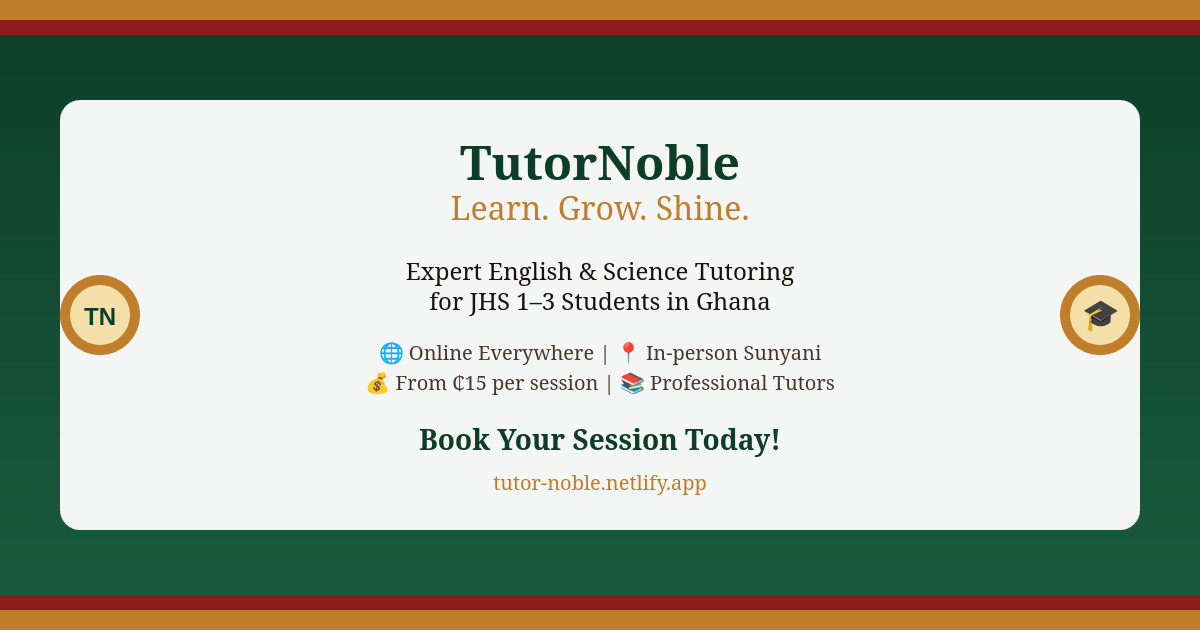
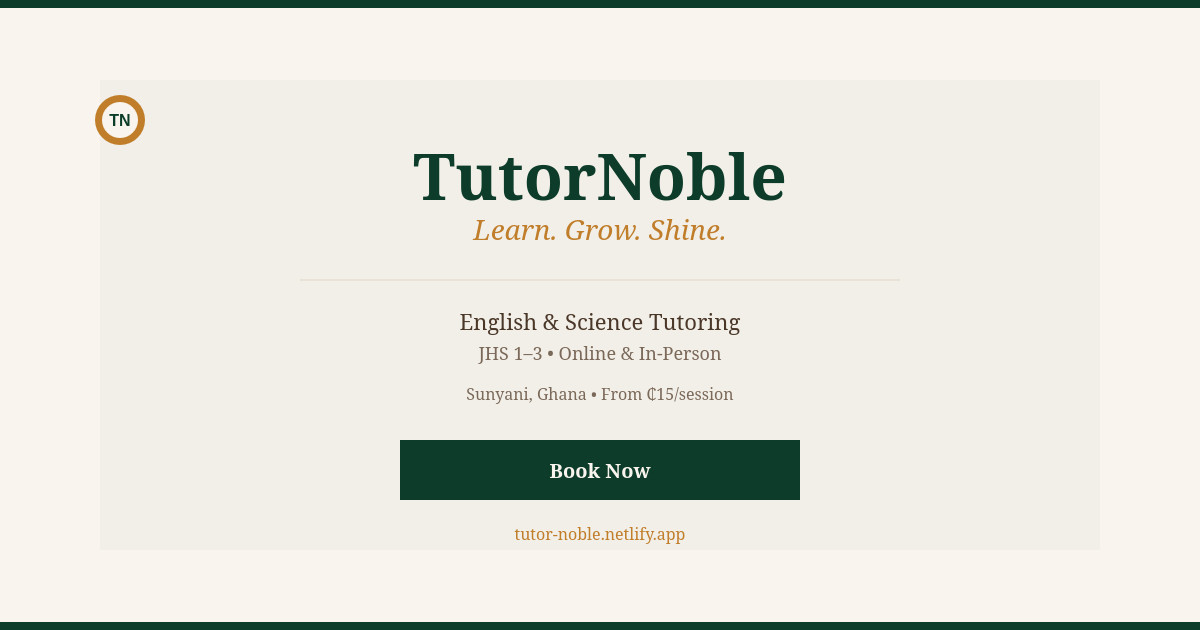
Update social media image with modern minimal design and add comprehensive README
- Replace busy social image with clean, minimal design
- Update social-image-generator.html with modern aesthetic
- Add comprehensive README.md with project documentation
- Include live site link and technical details
- Modern design features clean layout, subtle branding, minimal text
- README covers setup, features, brand guidelines, and project structure

diff --git a/social-image-generator.html b/social-image-generator.html
@@ -13,8 +13,8 @@ button:hover { background: #1A5C3E; }
 </head>
 <body>
 <div class="container">
-<h1>TutorNoble Social Media Image Generator</h1>
-<p>Creates a 1200x630px image for WhatsApp/Facebook sharing</p>
+<h1>TutorNoble Minimal Social Image Generator</h1>
+<p>Creates a modern, minimal 1200x630px image for WhatsApp/Facebook sharing</p>
 
 <div class="controls">
 <button onclick="generateImage()">Generate Social Image</button>
@@ -29,91 +29,81 @@ const canvas = document.getElementById('socialCanvas');
 const ctx = canvas.getContext('2d');
 
 function generateImage() {
-    // Background with gradient
-    const gradient = ctx.createLinearGradient(0, 0, 0, 630);
-    gradient.addColorStop(0, '#0D3D2A');
-    gradient.addColorStop(1, '#1A5C3E');
-    ctx.fillStyle = gradient;
+    // Clean minimal background
+    ctx.fillStyle = '#F9F5EE'; // Cream background
     ctx.fillRect(0, 0, 1200, 630);
     
-    // Kente pattern stripes
-    ctx.fillStyle = '#C07D2A';
-    ctx.fillRect(0, 0, 1200, 20);
-    ctx.fillRect(0, 610, 1200, 20);
-    
-    ctx.fillStyle = '#8B1C1C';
-    ctx.fillRect(0, 20, 1200, 15);
-    ctx.fillRect(0, 595, 1200, 15);
-    
-    // Main content area
-    ctx.fillStyle = 'rgba(255, 255, 255, 0.95)';
-    ctx.roundRect(60, 100, 1080, 430, 20);
-    ctx.fill();
-    
-    // Logo/Brand area
+    // Subtle forest green accent bar
     ctx.fillStyle = '#0D3D2A';
-    ctx.font = 'bold 48px Playfair Display';
+    ctx.fillRect(0, 0, 1200, 8);
+    ctx.fillRect(0, 622, 1200, 8);
+    
+    // Center content area with subtle shadow
+    ctx.fillStyle = 'rgba(13, 61, 42, 0.03)';
+    ctx.fillRect(100, 80, 1000, 470);
+    
+    // Main brand - centered and clean
+    ctx.fillStyle = '#0D3D2A';
+    ctx.font = 'bold 64px Playfair Display';
     ctx.textAlign = 'center';
-    ctx.fillText('TutorNoble', 600, 180);
+    ctx.fillText('TutorNoble', 600, 200);
     
-    // Tagline
+    // Minimal tagline
     ctx.fillStyle = '#C07D2A';
-    ctx.font = '32px Playfair Display';
-    ctx.fillText('Learn. Grow. Shine.', 600, 220);
+    ctx.font = 'italic 28px Playfair Display';
+    ctx.fillText('Learn. Grow. Shine.', 600, 240);
     
-    // Main message
-    ctx.fillStyle = '#1A1208';
-    ctx.font = '24px Plus Jakarta Sans';
-    ctx.fillText('Expert English & Science Tutoring', 600, 280);
-    ctx.fillText('for JHS 1–3 Students in Ghana', 600, 310);
+    // Clean separator line
+    ctx.strokeStyle = '#E0D5C5';
+    ctx.lineWidth = 1;
+    ctx.beginPath();
+    ctx.moveTo(300, 280);
+    ctx.lineTo(900, 280);
+    ctx.stroke();
     
-    // Features
-    ctx.font = '20px Plus Jakarta Sans';
+    // Core services - minimal text
     ctx.fillStyle = '#4A3728';
-    ctx.fillText('🌐 Online Everywhere | 📍 In-person Sunyani', 600, 360);
-    ctx.fillText('💰 From ₵15 per session | 📚 Professional Tutors', 600, 390);
+    ctx.font = '22px Plus Jakarta Sans';
+    ctx.fillText('English & Science Tutoring', 600, 330);
     
-    // Call to action
+    ctx.fillStyle = '#7A6858';
+    ctx.font = '18px Plus Jakarta Sans';
+    ctx.fillText('JHS 1–3 • Online & In-Person', 600, 360);
+    
+    // Location and pricing
+    ctx.fillStyle = '#7A6858';
+    ctx.font = '16px Plus Jakarta Sans';
+    ctx.fillText('Sunyani, Ghana • From ₵15/session', 600, 400);
+    
+    // Clean call to action
     ctx.fillStyle = '#0D3D2A';
-    ctx.font = 'bold 28px Plus Jakarta Sans';
-    ctx.fillText('Book Your Session Today!', 600, 450);
+    ctx.fillRect(400, 440, 400, 60);
     
-    // Website
+    ctx.fillStyle = '#F9F5EE';
+    ctx.font = 'bold 20px Plus Jakarta Sans';
+    ctx.fillText('Book Now', 600, 478);
+    
+    // Website URL - minimal
     ctx.fillStyle = '#C07D2A';
-    ctx.font = '20px Plus Jakarta Sans';
-    ctx.fillText('tutor-noble.netlify.app', 600, 490);
+    ctx.font = '16px Plus Jakarta Sans';
+    ctx.fillText('tutor-noble.netlify.app', 600, 540);
     
-    // Decorative elements
+    // Subtle brand element - small circle
     ctx.fillStyle = '#C07D2A';
     ctx.beginPath();
-    ctx.arc(100, 315, 40, 0, Math.PI * 2);
+    ctx.arc(120, 120, 25, 0, Math.PI * 2);
     ctx.fill();
     
-    ctx.fillStyle = '#F5DFA8';
+    ctx.fillStyle = '#F9F5EE';
     ctx.beginPath();
-    ctx.arc(100, 315, 30, 0, Math.PI * 2);
+    ctx.arc(120, 120, 18, 0, Math.PI * 2);
     ctx.fill();
     
+    // TN letters in circle
     ctx.fillStyle = '#0D3D2A';
-    ctx.font = 'bold 24px Arial';
+    ctx.font = 'bold 16px Arial';
     ctx.textAlign = 'center';
-    ctx.fillText('TN', 100, 325);
-    
-    // Right side decoration
-    ctx.fillStyle = '#C07D2A';
-    ctx.beginPath();
-    ctx.arc(1100, 315, 40, 0, Math.PI * 2);
-    ctx.fill();
-    
-    ctx.fillStyle = '#F5DFA8';
-    ctx.beginPath();
-    ctx.arc(1100, 315, 30, 0, Math.PI * 2);
-    ctx.fill();
-    
-    // Graduation cap icon
-    ctx.fillStyle = '#0D3D2A';
-    ctx.font = '30px Arial';
-    ctx.fillText('🎓', 1100, 325);
+    ctx.fillText('TN', 120, 126);
 }
 
 function downloadImage() {

diff --git a/README.md b/README.md
@@ -1,0 +1,164 @@
+# TutorNoble — Learn. Grow. Shine.
+
+🌐 **Live Site:** [https://tutor-noble.netlify.app/](https://tutor-noble.netlify.app/)
+
+Expert English and Science tutoring for JHS 1–3 students in Ghana. Online everywhere, in-person in Sunyani. From ₵15 per session.
+
+## 📚 About TutorNoble
+
+TutorNoble provides professional tutoring services for Junior High School students in Ghana, specializing in:
+
+- **English Language** - Grammar, Composition, Literature
+- **Integrated Science** - Biology, Chemistry, Physics
+- **Grade Levels** - JHS 1, JHS 2, JHS 3 (Grades 7-9)
+
+## 🌍 Services
+
+### Online Tutoring
+- Available everywhere in Ghana and internationally
+- Google Meet sessions
+- Flexible scheduling
+- ₵30 per hour / US$3.00
+
+### In-Person Tutoring  
+- Available in Sunyani, Bono Region only
+- Face-to-face sessions
+- Same great quality as online
+- ₵30 per hour / US$3.00
+
+## 💳 Payment Options
+
+- **MTN Mobile Money** - Instant payment
+- **Bank Transfer** - GCB Bank accepted
+- **Pay During Class** - Cash or MoMo at session start
+
+## 🎯 Features
+
+- **Professional Tutors** - Experienced and qualified
+- **Flexible Scheduling** - Book sessions that fit your schedule
+- **Affordable Rates** - Starting from ₵15 per session
+- **Multiple Subjects** - English and Integrated Science
+- **Both Formats** - Online and in-person options
+
+## 📱 Contact & Booking
+
+- **Phone:** [phone redacted]
+- **Email:** [email redacted]  
+- **WhatsApp:** [Message us](https://wa.me/[phone redacted])
+- **Website:** [tutor-noble.netlify.app](https://tutor-noble.netlify.app/)
+
+## 🛠️ Technical Details
+
+### Technologies Used
+- **HTML5** - Semantic markup
+- **CSS3** - Modern styling with custom properties
+- **JavaScript** - Interactive features and booking system
+- **Netlify** - Static site hosting and deployment
+
+### Features Implemented
+- ✅ Responsive design for all devices
+- ✅ Booking modal with form validation
+- ✅ Payment integration (MoMo, Bank, Pay during class)
+- ✅ WhatsApp integration for instant booking
+- ✅ Custom favicon matching brand design
+- ✅ Open Graph meta tags for social sharing
+- ✅ SEO optimization
+- ✅ Mobile-friendly navigation
+
+### Social Media Optimization
+- **WhatsApp Preview:** Custom image and description when sharing links
+- **Facebook Cards:** Proper Open Graph tags implemented
+- **Twitter Cards:** Large image cards with branding
+- **Favicon:** Custom design with kente pattern elements
+
+## 🎨 Brand Design
+
+### Colors
+- **Forest Green:** `#0D3D2A` - Primary brand color
+- **Gold:** `#C07D2A` - Accent and highlights
+- **Mint:** `#C8EDD9` - Secondary accent
+- **Cream:** `#F9F5EE` - Background
+
+### Typography
+- **Playfair Display** - Headings and brand elements
+- **Plus Jakarta Sans** - Body text and UI elements
+
+### Design Elements
+- **Kente Pattern** - Traditional Ghanaian textile patterns
+- **Educational Icons** - Books, graduation caps
+- **Professional Layout** - Clean, modern interface
+
+## 📦 Project Structure
+
+```
+TutorNoble/
+├── css/
+│   ├── global.css          # Main styles
+│   └── modal.css           # Booking modal styles
+├── js/
+│   ├── main.js             # Core functionality
+│   └── layout.js           # Shared components
+├── pages/
+│   ├── contact.html         # Contact page
+│   ├── location.html        # In-person info
+│   ├── payment.html         # Payment processing
+│   ├── pricing.html         # Pricing details
+│   ├── subjects.html        # Subject information
+│   └── tutor.html          # About tutor
+├── assets/                # Static resources
+├── favicon.ico            # Favicon for browsers
+├── favicon-detailed.svg    # SVG favicon with kente pattern
+├── social-image.jpg        # Social media sharing image
+├── index.html             # Homepage
+└── README.md              # This file
+```
+
+## 🚀 Getting Started
+
+1. **Clone the repository**
+   ```bash
+   git clone https://github.com/Code4Coast/tutor-noble-site.git
+   ```
+
+2. **Navigate to project**
+   ```bash
+   cd tutor-noble-site
+   ```
+
+3. **Open in browser**
+   ```bash
+   # Simply open index.html in your browser
+   # Or use a local server for development
+   python -m http.server 8000
+   ```
+
+## 📱 Social Sharing
+
+When sharing TutorNoble links on WhatsApp, Facebook, or Twitter, users will see:
+- 📱 **Custom preview image** with branding
+- 📝 **Professional description** of services
+- 🎯 **Clear call-to-action** to visit site
+- 🌐 **Correct website URL** for easy access
+
+## 🔧 Development Tools
+
+### Debug Tools
+- `debug-social.html` - Test Open Graph tags and social media previews
+- `social-image-generator.html` - Create custom social sharing images
+- `favicon-base64.html` - Generate favicon files
+
+### Browser Testing
+- ✅ Chrome, Firefox, Safari, Edge
+- ✅ Mobile Safari, Chrome Mobile
+- ✅ WhatsApp Web, WhatsApp Mobile
+- ✅ Facebook, Twitter sharing
+
+## 📄 License
+
+© 2026 TutorNoble Tutoring · Sunyani, Ghana
+
+All rights reserved. This project is proprietary and may not be used without permission.
+
+---
+
+**🌟 Book your tutoring session today at [tutor-noble.netlify.app](https://tutor-noble.netlify.app/)!**